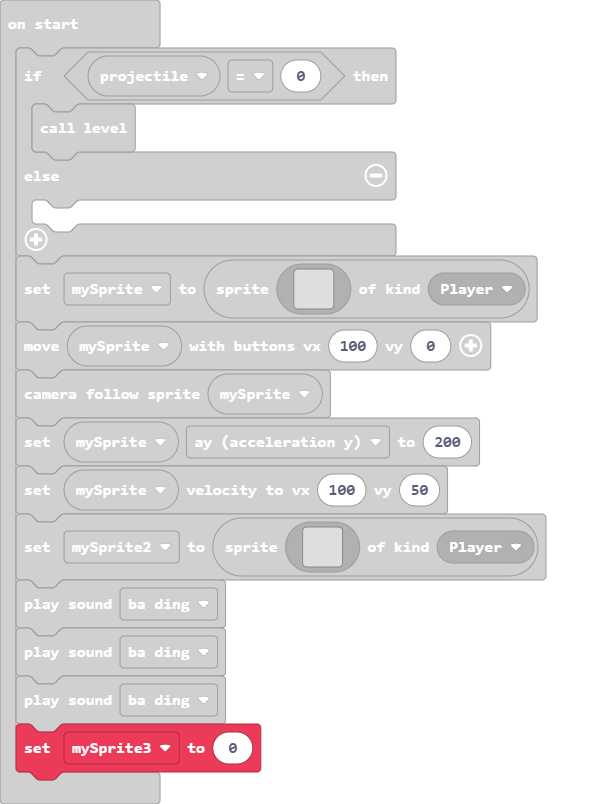
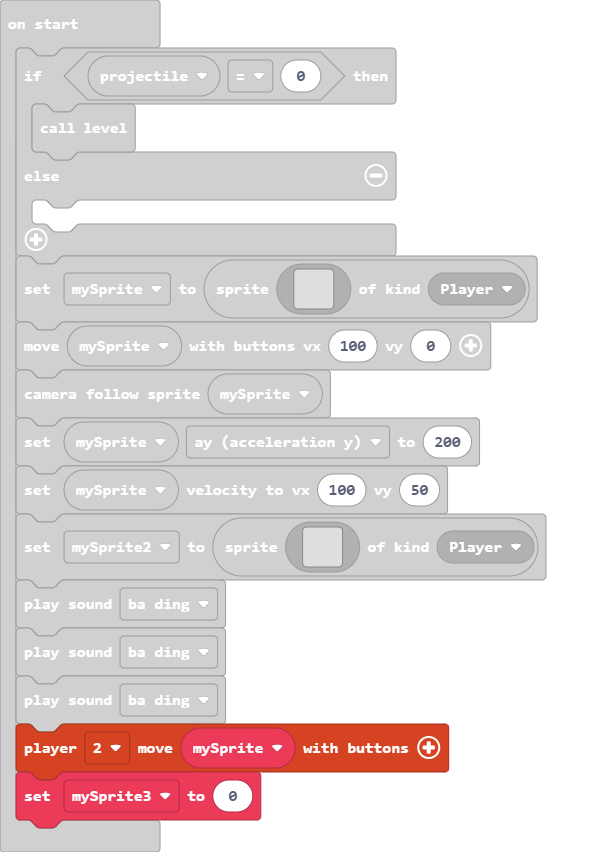
Update main.blocks, main.ts

Changed region(s): [[0.0, 0.0311, 0.9331, 0.995], [0.0602, 0.0622, 0.0903, 0.0933], [0.0301, 0.0311, 0.0602, 0.0622]]

diff --git a/main.ts b/main.ts
@@ -50,4 +50,5 @@ let mySprite2 = sprites.create(img`
 music.baDing.play()
 music.baDing.play()
 music.baDing.play()
+controller.player2.moveSprite(mySprite)
 let mySprite3 = 0
